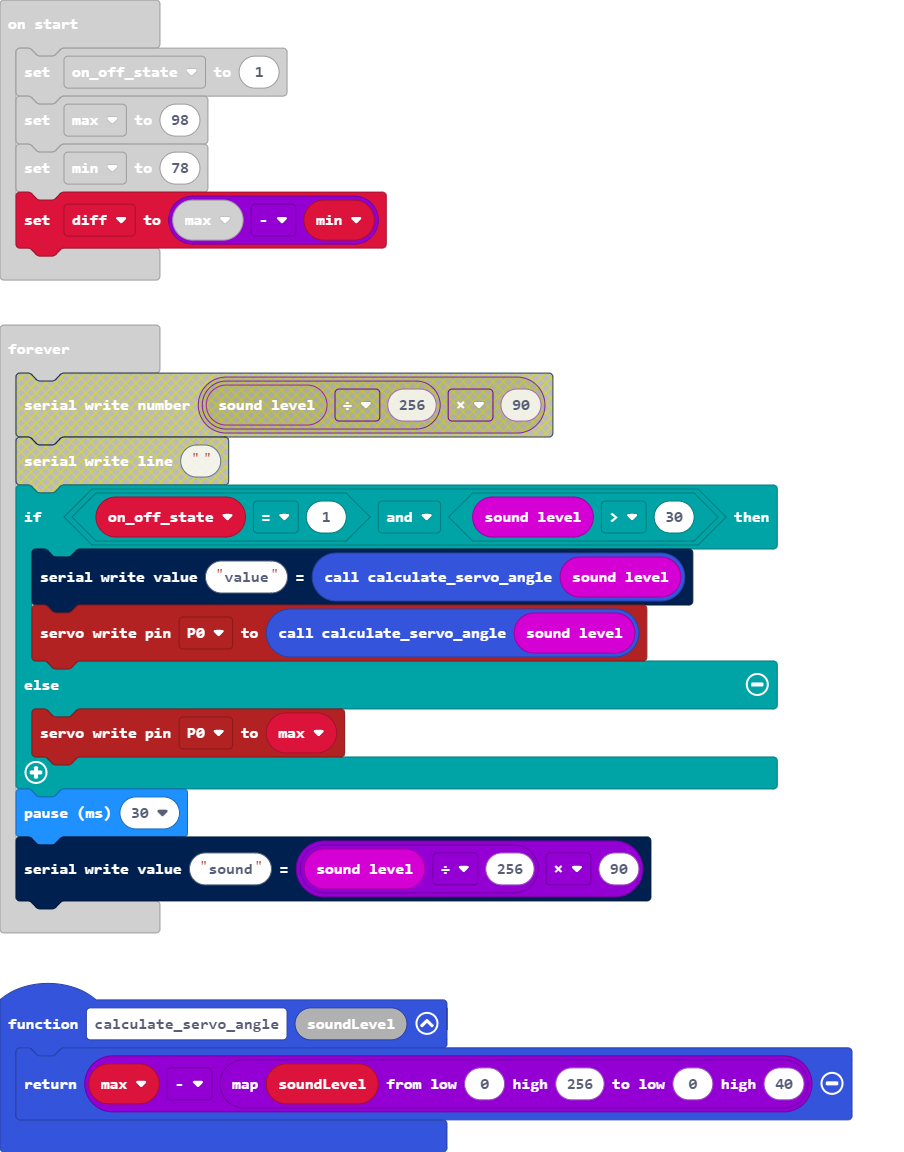
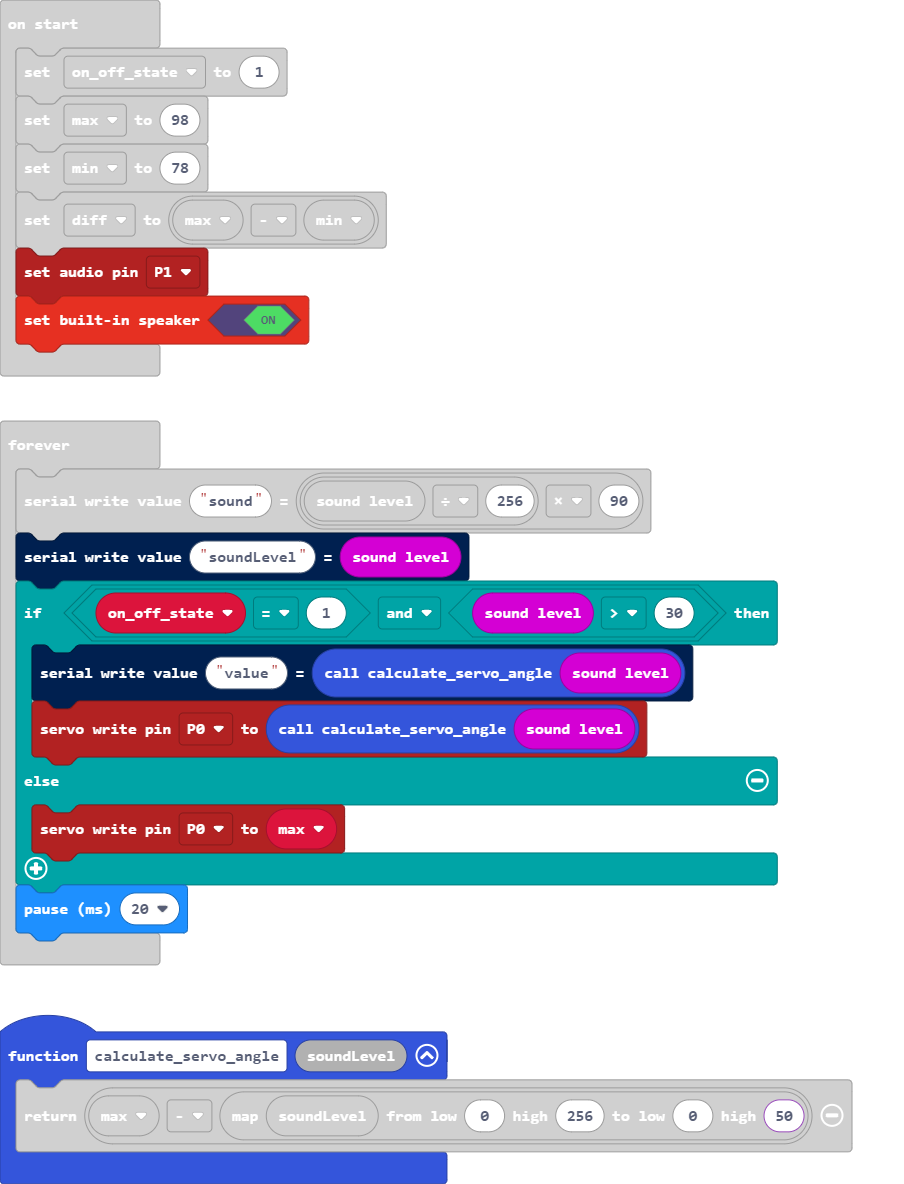
Update main.blocks, main.ts

diff --git a/main.ts b/main.ts
@@ -2,7 +2,7 @@ input.onButtonPressed(Button.A, function () {
     pins.servoWritePin(AnalogPin.P0, 98)
 })
 function calculate_servo_angle (soundLevel: number) {
-    return max - Math.map(soundLevel, 0, 256, 0, 40)
+    return max - Math.map(soundLevel, 0, 256, 0, 50)
 }
 input.onButtonPressed(Button.B, function () {
     if (on_off_state == 1) {
@@ -17,13 +17,16 @@ on_off_state = 1
 max = 98
 let min = 78
 let diff = max - min
+pins.setAudioPin(AnalogPin.P1)
+music.setBuiltInSpeakerEnabled(true)
 basic.forever(function () {
     serial.writeValue("sound", input.soundLevel() / 256 * 90)
+    serial.writeValue("soundLevel", input.soundLevel())
     if (on_off_state == 1 && input.soundLevel() > 30) {
         serial.writeValue("value", calculate_servo_angle(input.soundLevel()))
         pins.servoWritePin(AnalogPin.P0, calculate_servo_angle(input.soundLevel()))
     } else {
         pins.servoWritePin(AnalogPin.P0, max)
     }
-    basic.pause(30)
+    basic.pause(20)
 })
